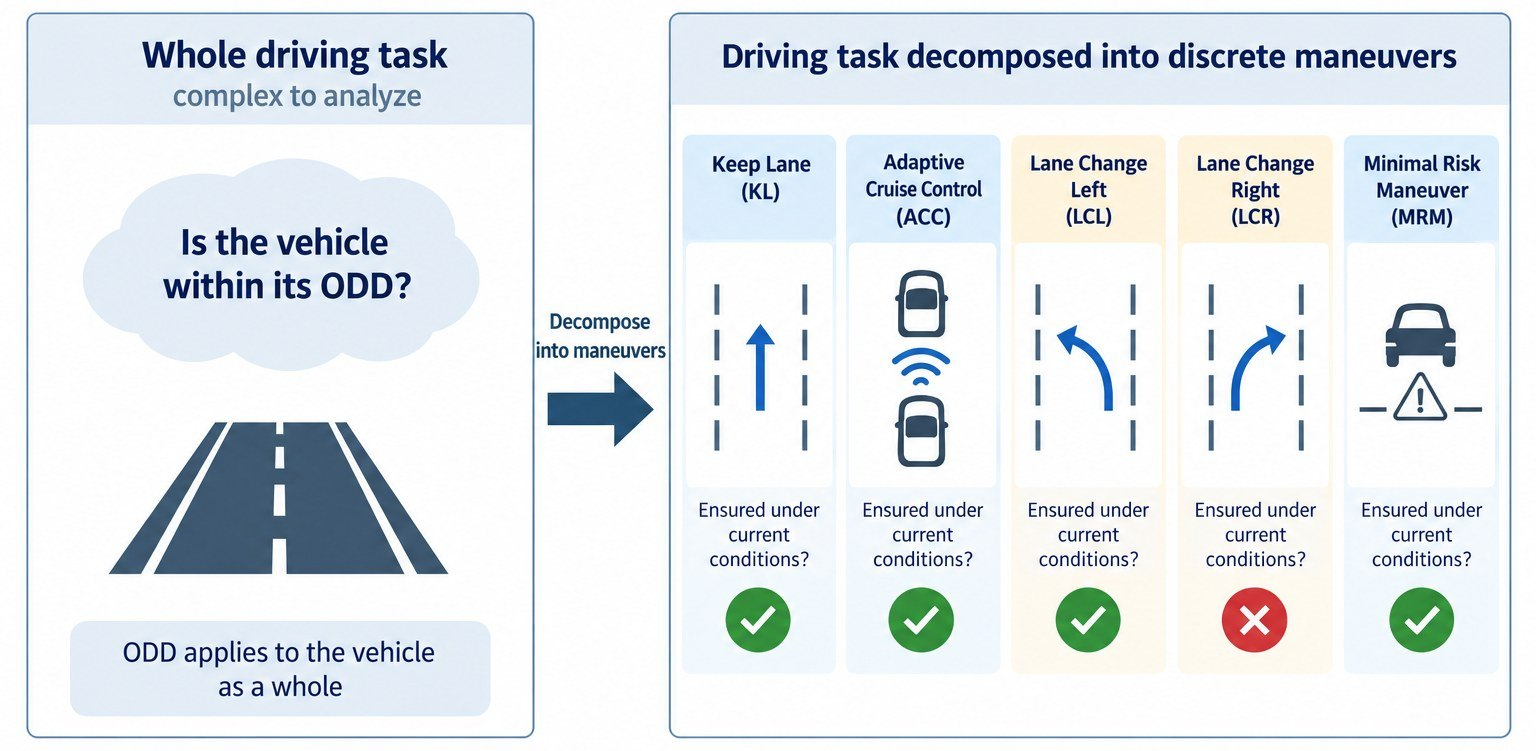
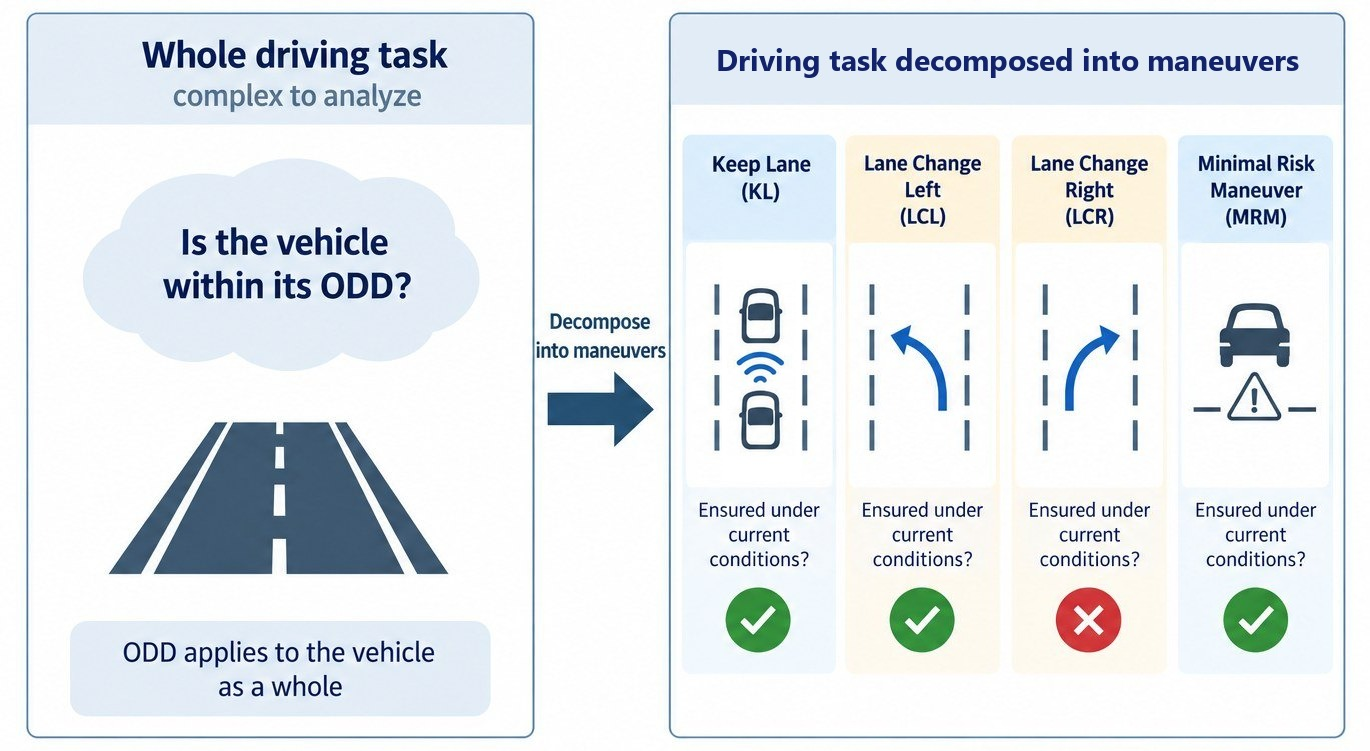
Maneuvers and operability on one slide: Keep Lane absorbs ACC, only the AVSC reference

diff --git a/public/defense/presentation/slides.js b/public/defense/presentation/slides.js
@@ -402,26 +402,22 @@
         </div>
       </div>` },
 
-    { id: "maneuvers", cite: ["AVSC2021BehavioralCompetencies", "iso2023iso34503", "colwell_automated_2018"], sec: "c1", c: ["C1"], kicker: "Mapping the ODD to the behavioral level", time: 55,
+    { id: "maneuvers", cite: ["AVSC2021BehavioralCompetencies"], sec: "c1", c: ["C1"], kicker: "Maneuvers and operability", time: 90, steps: 1,
       title: "The driving task splits into maneuvers, each with its own limits",
-      notes: "Asking whether the whole vehicle is within its ODD is too coarse. The task is decomposed into maneuvers, and the question is asked for each of them. Each maneuver has its own boundaries in the space of the operational constraints.",
-      html: `<div class="card col" style="flex:1.3 1 0">${fig("decomposition.jpg", "Decomposition of the driving task into maneuvers")}</div>
-        <div class="g3">
-          <div class="card"><h4>Maneuvers ${R("AVSC2021BehavioralCompetencies")}</h4><div class="eq"><i>U</i> = {KL, LCL, LCR, MRM}</div><p class="small">Each activates an existing feature, with its parameters</p></div>
-          <div class="card"><h4>Operational domain ${R("iso2023iso34503", "colwell_automated_2018")}</h4><div class="eq"><i>X</i><sub>ODD</sub> = <i>C</i><sub>1</sub> × <i>C</i><sub>2</sub> × … × <i>C<sub>n</sub></i></div><p class="small">The OD, a point moving in this space</p></div>
-          <div class="card"><h4>Constraints</h4><p class="small"><b>Continuous</b>, visibility or density, with margins<br><b>Discrete</b>, road type or works, to predict</p></div>
-        </div>` },
-
-    { id: "operability", cite: ["colwell_automated_2018", "charmet2024monitoring"], sec: "c1", c: ["C1"], kicker: "Ensured maneuvers and levels of operability", time: 45,
-      title: "Three levels of operability, from the set of ensured maneuvers",
-      notes: "Three levels of operability. Degradation is per maneuver, not an intermediate level: a maneuver can remain ensured with a reduced performance range. The same assessment runs on predicted states, fed by the electronic horizon.",
-      html: `<div class="g3">
-          <div class="card ok col" style="gap:22px;padding:34px 36px"><span class="pill ok" style="align-self:flex-start;font-size:24px">Full operability</span><div class="eq" style="font-size:44px">${Uens()} = <i>U</i></div><p style="font-size:28px">Every maneuver ensured</p></div>
-          <div class="card deg col" style="gap:22px;padding:34px 36px"><span class="pill deg" style="align-self:flex-start;font-size:24px">Partial operability</span><div class="eq" style="font-size:44px">∅ ⊊ ${Uens()} ⊊ <i>U</i></div><p style="font-size:28px">Some maneuvers remain ${R("colwell_automated_2018")}</p></div>
-          <div class="card bad col" style="gap:22px;padding:34px 36px"><span class="pill bad" style="align-self:flex-start;font-size:24px">Loss of operability</span><div class="eq" style="font-size:44px">${Uens()} = ∅</div><p style="font-size:28px">A fallback is required ${R("charmet2024monitoring")}</p></div>
-        </div>
-        <div class="card amber"><p>Degradation is <b>per maneuver</b>, with a reduced performance range</p></div>
-        <div class="takeaway">Assessed on <b>predicted states</b> too, which makes anticipation possible</div>` },
+      notes: "Asking whether the whole vehicle is within its ODD is too coarse. The driving task is decomposed into maneuvers, following the behavioral competencies, and the question is asked for each of them. Keep Lane includes following the vehicle ahead and adapting the speed to it. Each maneuver has its own limits in the space of the operational conditions. This is the operational domain: the product of the conditions, and the current situation is a point moving in this space. The conditions are continuous, such as visibility or traffic density, or discrete, such as the road type or road works, depending on the chosen taxonomy. (1) From the set of ensured maneuvers come three levels of operability. Full: every maneuver is ensured. Partial: some maneuvers remain ensured, possibly with a reduced performance range, so degradation is per maneuver. Loss: no maneuver is ensured and a fallback is required.",
+      html: `<div class="row grow" style="gap:24px;align-items:stretch">
+        <div class="col" style="flex:1.75 1 0;gap:20px">
+          <div class="card col grow">${fig("decomposition.jpg?v=2", "Decomposition of the driving task into maneuvers")}</div>
+          <div class="g2">
+            <div class="card"><h4>Maneuvers ${R("AVSC2021BehavioralCompetencies")}</h4><div class="eq"><i>U</i> = {KL, LCL, LCR, MRM}</div></div>
+            <div class="card"><h4>Operational domain</h4><div class="eq"><i>X</i><sub>ODD</sub> = <i>C</i><sub>1</sub> × <i>C</i><sub>2</sub> × … × <i>C<sub>n</sub></i></div><p class="small" style="margin:0"><i>C<sub>i</sub></i> a condition, continuous or discrete</p></div>
+          </div></div>
+        <div class="col" data-step="1" style="flex:1 1 0;gap:18px;justify-content:center">
+          <div class="card ok col" style="gap:10px"><span class="pill ok" style="align-self:flex-start">Full operability</span><div class="eq" style="font-size:36px">${Uens()} = <i>U</i></div><p class="small" style="margin:0">Every maneuver ensured</p></div>
+          <div class="card deg col" style="gap:10px"><span class="pill deg" style="align-self:flex-start">Partial operability</span><div class="eq" style="font-size:36px">∅ ⊊ ${Uens()} ⊊ <i>U</i></div><p class="small" style="margin:0">Some maneuvers remain ensured</p></div>
+          <div class="card bad col" style="gap:10px"><span class="pill bad" style="align-self:flex-start">Loss of operability</span><div class="eq" style="font-size:36px">${Uens()} = ∅</div><p class="small" style="margin:0">A fallback is required</p></div>
+          <p class="small mute" style="margin:0"><i>U</i><sub>ens</sub>(<i>S</i>), the maneuvers ensured in the state <i>S</i></p>
+        </div></div>` },
 
     { id: "dcap", sec: "c1", c: ["C1"], kicker: "Assessing the decisional capability", time: 60, steps: 2,
       title: "How do the conditions affect what the vehicle can do?",

diff --git a/public/defense/presentation/index.html b/public/defense/presentation/index.html
@@ -7,7 +7,7 @@
 <title>PhD defense · Rhandy Cardenas</title>
 <meta name="description" content="Fail-operational decision-making for intelligent vehicles: the PhD defense of Rhandy Cardenas.">
 <link rel="icon" type="image/png" href="../../favicon.png">
-<link rel="stylesheet" href="talk.css?v=20261128d">
+<link rel="stylesheet" href="talk.css?v=20261128e">
 <script src="../gate.js"></script>
 </head>
 <body>
@@ -33,7 +33,7 @@
   // the slides load only once the password has been entered
   window.defenseGate.whenUnlocked(function () {
     var load = function (src, next) { var e = document.createElement("script"); e.src = src; e.onload = next; document.body.appendChild(e); };
-    var v = "?v=20261128d";  // bump to refresh the browser caches after a change
+    var v = "?v=20261128e";  // bump to refresh the browser caches after a change
     load("slides.js" + v, function () { load("talk.js" + v, function () { load("review.js" + v); }); });
   });
 </script>
